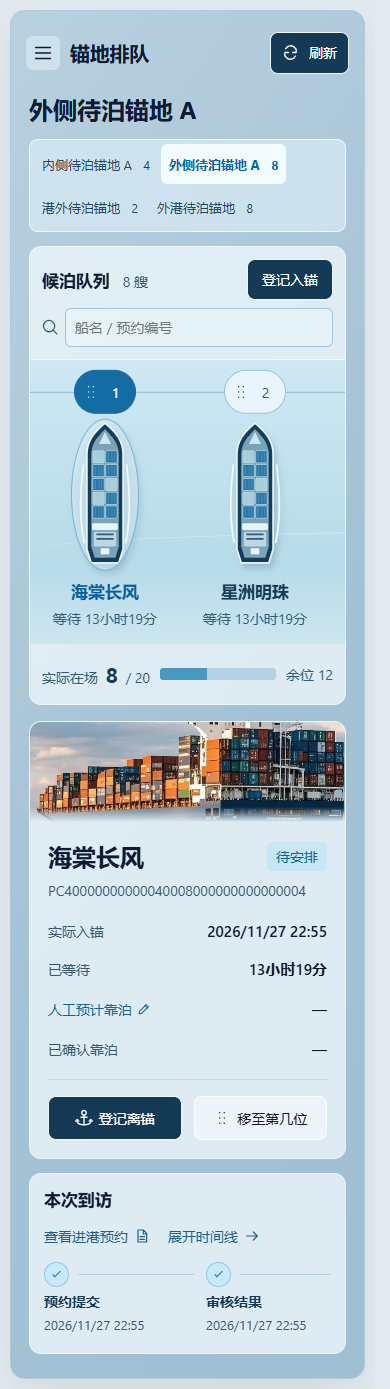
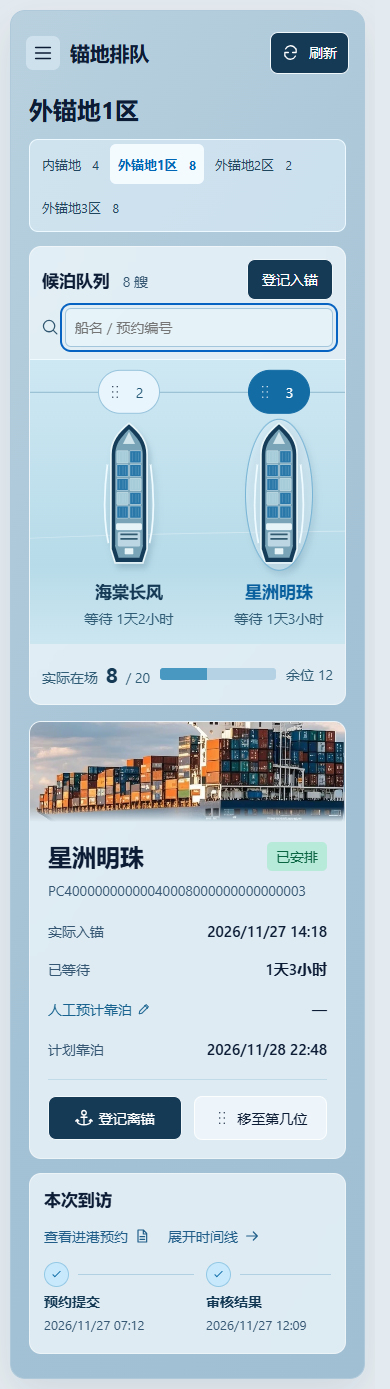
补充第四阶段业务复盘验收与第五阶段原型计划

diff --git a/docs/stages/stage-4-implementation.md b/docs/stages/stage-4-implementation.md
@@ -36,9 +36,27 @@
 
 每批运行相关.NET测试、前端构建、SQL语法检查和浏览器任务，review记录到`docs/reviews/`。临时服务记录PID并在交付前停止；保留用户已有服务。只提交本批文件，不提交中期材料。
 
-## 本批结果
+## 当前操作主线与入口分工
+
+总览判断全港预约、候泊和计划概况 → 调度员在进港预约登记、保存草稿或提交 → 审核员批准/驳回 → 批准且实际需要等泊的船在锚地页登记入锚 → 调度员维护人工预计、按原因调序 → 后续第五阶段编制并确认泊位计划 → 船实际离开锚地后登记离锚。直接安排的船不要求先入锚。登记离锚只结束这段停留，不代表已经进港、靠泊或完成到访。
+
+人工预计是尚可调整的判断，不占泊位、不改变顺位；计划靠泊来自已经确认的泊位版本，当前锚地页只读；计划确认时刻表示作出安排的时间，实际靠泊要由第六阶段事件证明。调序只改变候泊顺位，不自动推移计划。待安排/已安排表示有无有效确认计划，预约的已批准仍是许可状态，两者并不矛盾。
+
+权限：ADMIN/DISPATCHER可登记预约、维护人工预计、调序；ADMIN/REVIEWER可审核；ADMIN/DISPATCHER/RECORDER可登记入离锚；四类角色可读取锚地。同一页面根据真实会话开放操作，服务端与数据库再次检查。
+
+有实际停留的预约详情可跳回锚地，已离锚历史也能定位；无停留预约不显示空入口。底部节点按实际发生顺序显示，点击已发生节点展开对应记录；未发生保持待记录。完整记录保留同次到访的多段停留，历史停留的计划取离锚前最后确认版本。
 
 ### 2026-11-28 使用反馈修正
+
+第二批收口：预约的锚地跳转移入详情内部，仅有实际停留记录时显示；四设施简称统一为内锚地、外锚地1/2/3区，主键和代码不变。时间线从提交、审核、实际事件和计划确认事实构成；计划确认时刻与计划靠泊时刻分别表达，不能把未来计划标成已经靠泊。
+
+数据修订只处理17脚本可明确识别、原时间链仍与批量生成相同的合成样例，按每船确定性时间差修订，保留原审计并追加修订前后快照及原因；真实用户事件、调序、人工预计、既有计划不重置。补充少量人工预计及确认计划样本通过现有事务办理，形成不同可核查状态；重跑不改已经办理的数据。先在独立测试库验证幂等、时序、保留人工变更及审计，再应用开发库。
+
+验收增加：无停留预约无跳转、有历史停留可往返；同船提交早于审核早于入锚，不同船时间分散；计划确认节点显示确认时间，计划靠泊仍为未来安排；已离锚历史可查、记录人正确；总览数量与队列/SQL一致。第五阶段仅细化5A原型及后续验收，不提前开发泊位页面。
+
+本批已增加预约停留关联标识、计划确认时间和历史版本查询，配套最小列权限；本机整理12条合成时间链、增加24条修订审计，经事务补充2条人工预计和2条确认计划。最新验收结论集中见review；以下保留同日上一批布局/拖动修复的证据，不能与本轮新增混淆。
+
+### 同日上一批：船体拖动与布局
 
 - 已复查原拖动提交：只在顺位圆点绑定指针事件，船体点击与拖动被割裂；宽屏高度封顶且详情固定282px，原测试未覆盖直接抓船和大窗口空间分配。本轮复用现有5173/5180服务，不修改后端或数据库模型。
 - 船体与可辨识把手均可拖动；单击选择，超过移动阈值才调序，松手预览、填写原因确认。触摸保留海面滚动通道，键盘及精确输入继续可用；选择详情的异步响应不得打断拖动。

diff --git a/docs/reviews/2026-11-27-stage4-anchorage.md b/docs/reviews/2026-11-27-stage4-anchorage.md
@@ -35,3 +35,15 @@
 **最终验证。** 15项真实API浏览器任务通过，涵盖管理员/调度员从船体拖动、审核员/记录员禁止调序、鼠标与模拟触摸、边缘滚动、海面浏览、快速再次抓取、延迟真实GET、取消无写、真实保存、并发冲突、未知结果核对、入离锚/预计、预约往返及键盘。2538×1393、1920×1080、1920×900、1680×892、1440×900、1366×768桌面均无纵向溢出，底部留白10px，详情330—460px、字段14—17px；390/320px无页面横向溢出。逐张检查宽屏、短屏、窄屏和拖动截图，并对照既有TIDELINE参考。前端生产构建、TypeScript及28份SQL静态检查通过；本轮未重新运行.NET/数据库全套，因为未改后端和SQL。
 
 **范围与维护。** 仅修改锚地Vue页面、拖动组合函数、样式、图标和相关回归；未加依赖、未修改21表/3视图、接口或权限规则。浏览器插件不可用，使用仓库Playwright及本机Edge；触摸结果不代替实体设备验收。测试复用原有5173/5180服务，没有创建或终止开发服务。AGENTS增加“从业务对象本体验收”和留白/字号/加载稳定性要求；设计文档及正式截图同步更新。业务回归通过现有API产生正常测试办理及审计，不清空历史记录。
+
+## 2026-11-28 第二批：业务关联与到访事实
+
+根因：预约跳转是详情面板外的兄弟按钮，只检查已登录，未检查停留；17号样例在一秒内连续提交、审核、入锚，分钟显示完全相同；时间线误用未来计划靠泊时间表示确认动作。另发现历史停留依赖当前有效计划，计划完成/产生新版本后会丢失当时安排；审核节点使用当前预约状态，会把后来撤销误读成原审核结果。
+
+处理：预约详情增加真实停留标识，按钮收回面板内，仅有关联才显示；区分确认动作时间与计划时间，已发生节点排序并定位对应记录，审核节点只展示可证实的审核人和时刻。历史停留选离锚前最后确认版本，当前停留继续排除失效计划；补相应最小列权限。新增查询回归先失败、修复后通过，最小权限回归也实际发现并拦住缺失授权。
+
+18号脚本限定来源整理12条合成时间链，每船提交＜审核＜入锚，各不相同；本机追加24条时间修订快照，原审计和真实用户办理保留。另经原过程补2条人工预计、2条确认安排。设施名改为内锚地、外锚地1—3区，代码/容量不变。独立库验证了人工改时跳过、已有预计保留、原审计不改、重跑无新增审计及无状态重置。本机四处在场22艘的入锚时刻均各自不同，12条新样例的申请审核也已分散；旧中期样例仍保留其原始申请审核历史，不把保留旧数据称为全库最终清洗。
+
+验证：全套.NET 161/161；数据库60/60（含4组双连接）；29份SQL解析；Release构建、Vue类型与构建通过。阶段4真实浏览器17项通过；总览/预约额外19项中发现320px摘要长编号越界，增加局部换行后，19项加新增时间线/关联入口2项在最终后端共21/21通过，合计36项不同浏览器任务通过。桌面1440×900和390px截图人工复核；既有阶段4回归覆盖短屏/宽屏/320px、拖动、未知写入结果、角色及跨页，未新增界面依赖。
+
+结论：本轮所列第四阶段问题已修正，可进入5A原型。第五阶段写过程角色收紧、计划取消与版本影响已列为接入前门槛；未提前开放泊位界面。实体设备手势、非开发同学试用、最终全库展示场景整理仍在整套系统验收范围。后端按用户明确授权重启，使用原5180端口；保留原5173服务，未新增占用其他端口的测试服务。未提交中期材料。

diff --git a/docs/stage-plans.md b/docs/stage-plans.md
@@ -1,6 +1,6 @@
 # PortQueue 分阶段实施计划与验收标准
 
-更新：2026-11-27。本文件是当前进度和后续批次的唯一入口。设计取舍见[后续模块设计](design/post-midterm-direction.md)，最终完成条件见[验收计划](acceptance-plan.md)。后续采用 A 业务任务型：所选到访详情贯穿时间线，泊位页使用资源排期，锚地调序与泊位排期支持受控拖动。
+更新：2026-11-28。本文件是当前进度和后续批次的唯一入口。设计取舍见[后续模块设计](design/post-midterm-direction.md)，最终完成条件见[验收计划](acceptance-plan.md)。后续采用 A 业务任务型：所选到访详情贯穿时间线，泊位页使用资源排期，锚地调序与泊位排期支持受控拖动。
 
 ## 当前完成情况
 
@@ -38,6 +38,12 @@
 4D完成只代表锚地模块可用；跨页“安排泊位”在5阶段接入后才开放，不提前用通用列表占位。
 
 ## 阶段5：泊位计划与资源排期
+
+第四阶段反馈收口后进入5A，先交付HTML交互原型，用户确认后再接真实查询；本轮不实施泊位页面。原型保持冰蓝外框，以“泊位为行、时间为横轴、一次到访为一条时间条”，下方/侧方显示所选到访和版本，不复刻锚地船形队列，也不堆通用查询表。
+
+5A验收前明确以下六点：①从锚地选船进入后保留同一次到访及返回位置，其余泊位计划仍可见；②日期切换、横向浏览、定位当前时间和点击时间条可用，24/48小时及跨日比例正确；③未安排、草稿、已确认、执行中、已完成以文字及线形分清，草稿不占正式窗口；④空泊位、船型不符、时段冲突、实际超时有具体对象与时间，不能仅标红；⑤桌面100%缩放、1366×768和390px均能阅读，窄屏可切明细；⑥原型操作明确是预览，5B前不写正式库。每个批次仍分别设计、实现、review、验收与提交。
+
+接入前核查两项数据库前提：现有计划过程只核验启用账号/角色，5B—5D开放写接口前须补ADMIN/DISPATCHER权限及越权回归；计划取消、候选版本与已执行基准在5D明确，不能让取消后的队列仍显示有效安排。样例已有确认计划只证明数据库能力与第四阶段读取，不计为第五阶段页面交付。
 
 | 批次 | 输入 → 处理 → 输出；前后端与SQL职责 | 完成本批的证据 |
 |---|---|---|

diff --git a/web/port-queue-web/DESIGN.md b/web/port-queue-web/DESIGN.md
@@ -389,6 +389,8 @@ Avoid unnecessary secondary labels and descriptions. Let the layout do the expla
 
 ### Stage 4 anchorage workspace
 
+11月28日第二批收口：保留已认可构图，设施简称为内锚地/外锚地1—3区。预约相关停留按钮置于详情内部底部，20px分组间距；仅实际有关联时显示。计划靠泊与计划确认时刻分别表达，时间线按事实排序，点击定位对应记录；当前预约状态不得冒充过去的审核结论。合成时间链整理在SQL完成，前端不随机造时间或状态。
+
 2026-11-28修正：冰蓝海面表达候泊顺位，完整队列按可读船宽横向浏览，少量船舶均匀分布、不留虚构空格。船体与带抓取图标的顺位把手均支持鼠标/触摸拖动，单击船体只选择；海面空白处保留原生浏览，长队列支持边缘滚动。移动超过6px才产生调序预览，取消归位尚未完成也可直接再次抓取；“移至第几位”保留键盘与精确输入，确认时核对原因和受影响成员。
 
 桌面主区使用剩余高度，详情宽度330—460px，字段14—17px；短屏缩减图片和间距，手机按内容排布。右侧保留离锚和调序，人工预计在字段旁编辑，到访导航集中在底部时间线。选中对象读取中保留五节点布局，禁止海面高度跳变；无权限时只可选择查看。登记、预计、调序继续走真实事务，未知结果可关闭后恢复核对，不添加说明性小字。
